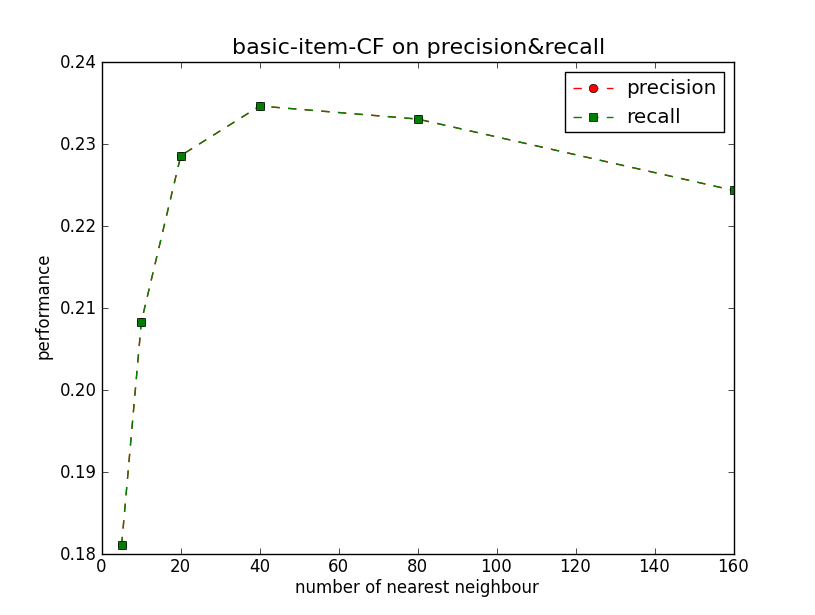
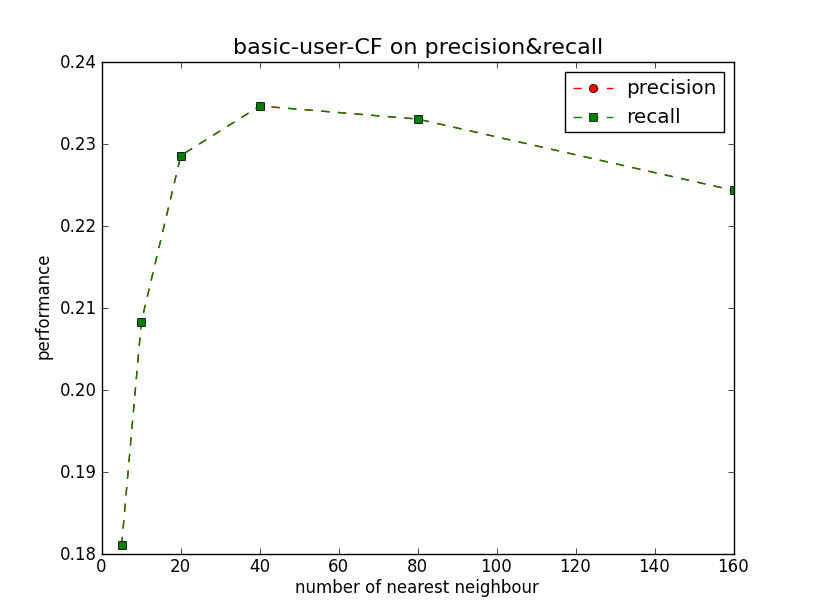
BUCF for python

Changed region(s): [[0.2761, 0.0618, 0.7669, 0.0927]]

diff --git a/tiny_item/recommendation_system/BUCF_for_python/Ploting.py b/tiny_item/recommendation_system/BUCF_for_python/Ploting.py
@@ -27,9 +27,9 @@ class Ploting() :
 
     def ploting(self) :
     #   ploting graphs
-        self.plot_rc_and_prec()
+        # self.plot_rc_and_prec()
         # self.plot_coverage()
-        # self.plot_popularity()
+        self.plot_popularity()
     # --- end of ploting ---
 
     def plot_rc_and_prec(self) :
@@ -39,7 +39,7 @@ class Ploting() :
         p1 = ax.plot(self.K, self.rc, 'ro--')
         bx = fig.add_subplot(111)
         p3 = bx.plot(self.K, self.prec, 'gs--')
-        plt.title('basic-item-CF on precision&recall', fontsize=16)
+        plt.title('basic-user-CF on precision&recall', fontsize=16)
         plt.xlabel('number of nearest neighbour')
         plt.ylabel('performance')
         plt.legend((p1[0], p3[0]), ('precision', 'recall'), 'best', numpoints=1)
@@ -51,7 +51,7 @@ class Ploting() :
         fig = plt.figure()
         ax = fig.add_subplot(111)
         p1 = ax.plot(self.K, self.cv, 'bo--')
-        plt.title('basic-item-CF on coverage', fontsize=16)
+        plt.title('basic-user-CF on coverage', fontsize=16)
         plt.xlabel('number of nearest neighbour')
         plt.ylabel('performance')
         plt.legend((p1[0], p1[0]), ('coverage', 'coverage'), 'best', numpoints=1)
@@ -63,7 +63,7 @@ class Ploting() :
         fig = plt.figure()
         ax = fig.add_subplot(111)
         p1 = ax.plot(self.K, self.pop, 'mo--')
-        plt.title('basic-item-CF on popularity', fontsize=16)
+        plt.title('basic-user-CF on popularity', fontsize=16)
         plt.xlabel('number of nearest neighbour')
         plt.ylabel('performance')
         plt.legend((p1[0], p1[0]), ('popularity', 'popularity'), 'best', numpoints=1)
